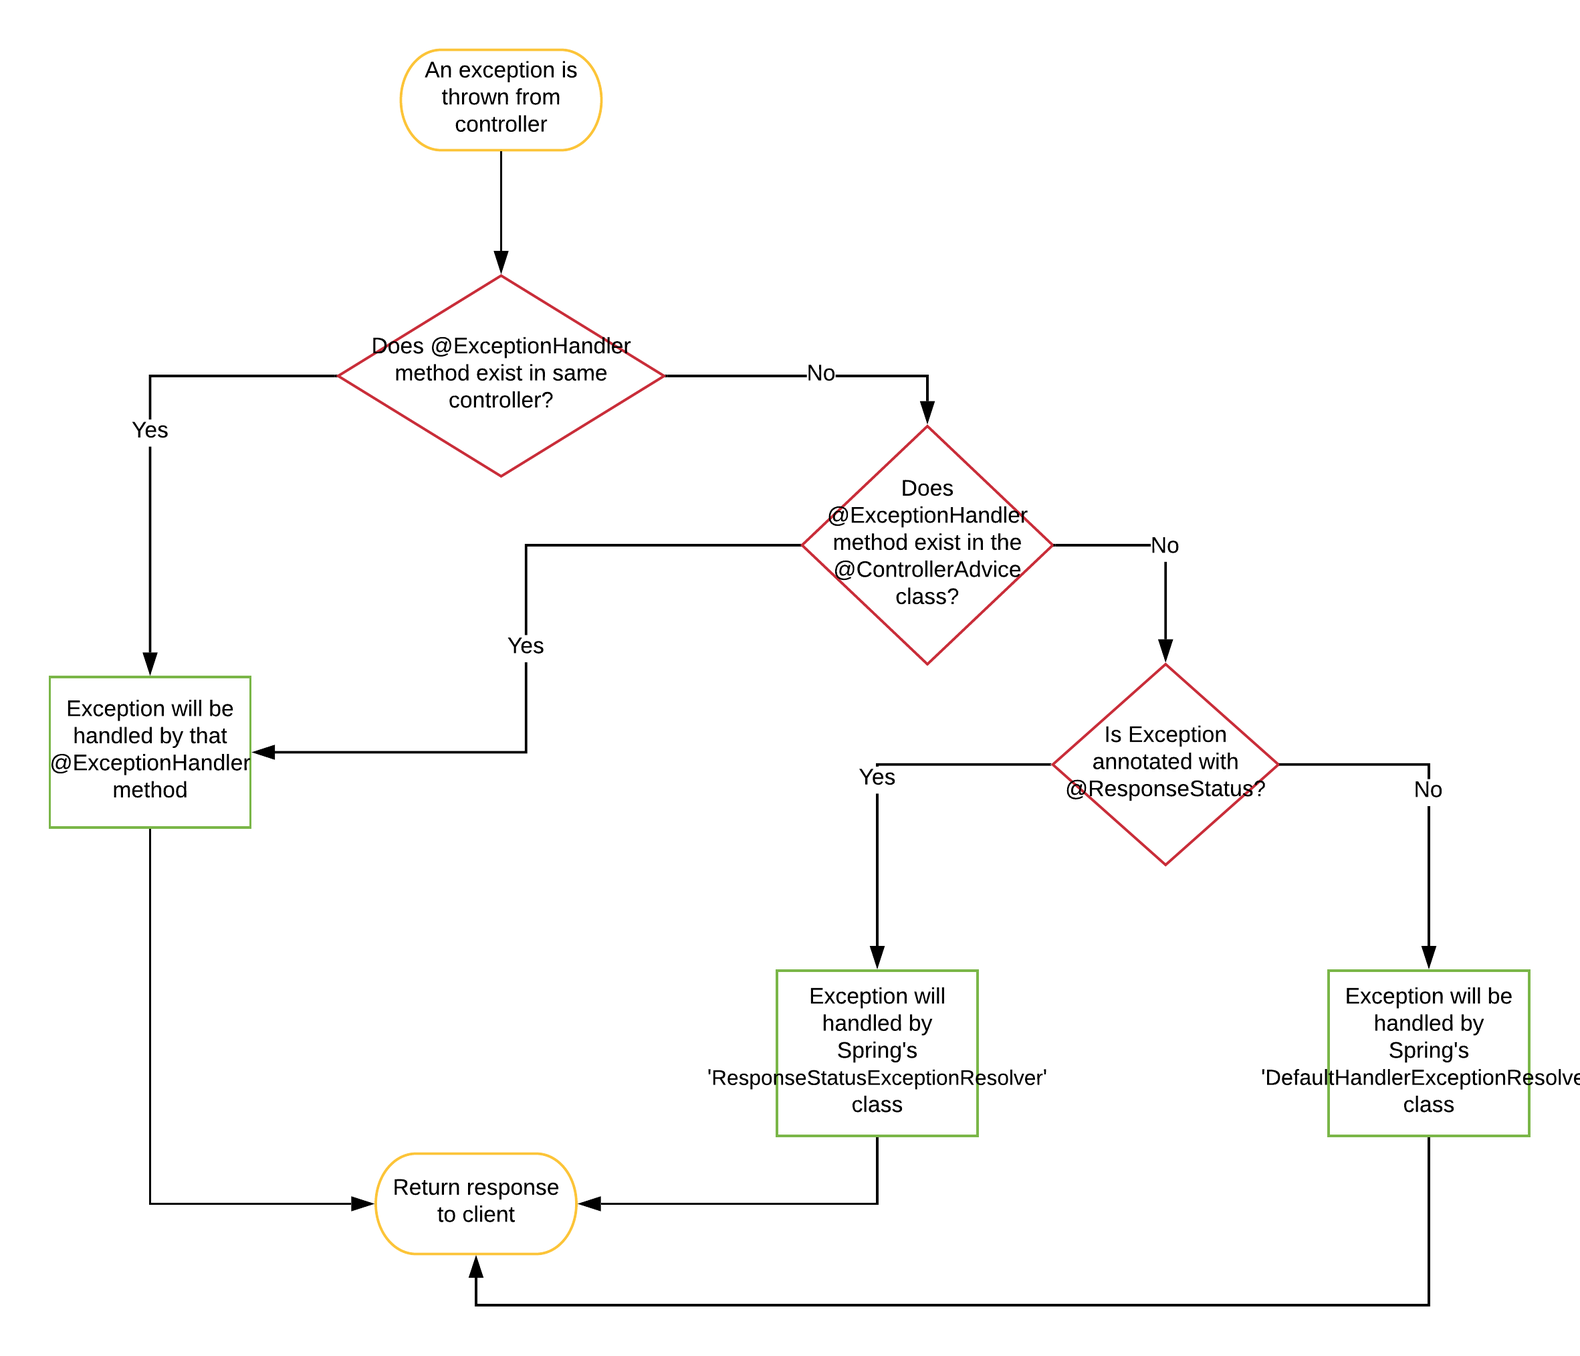
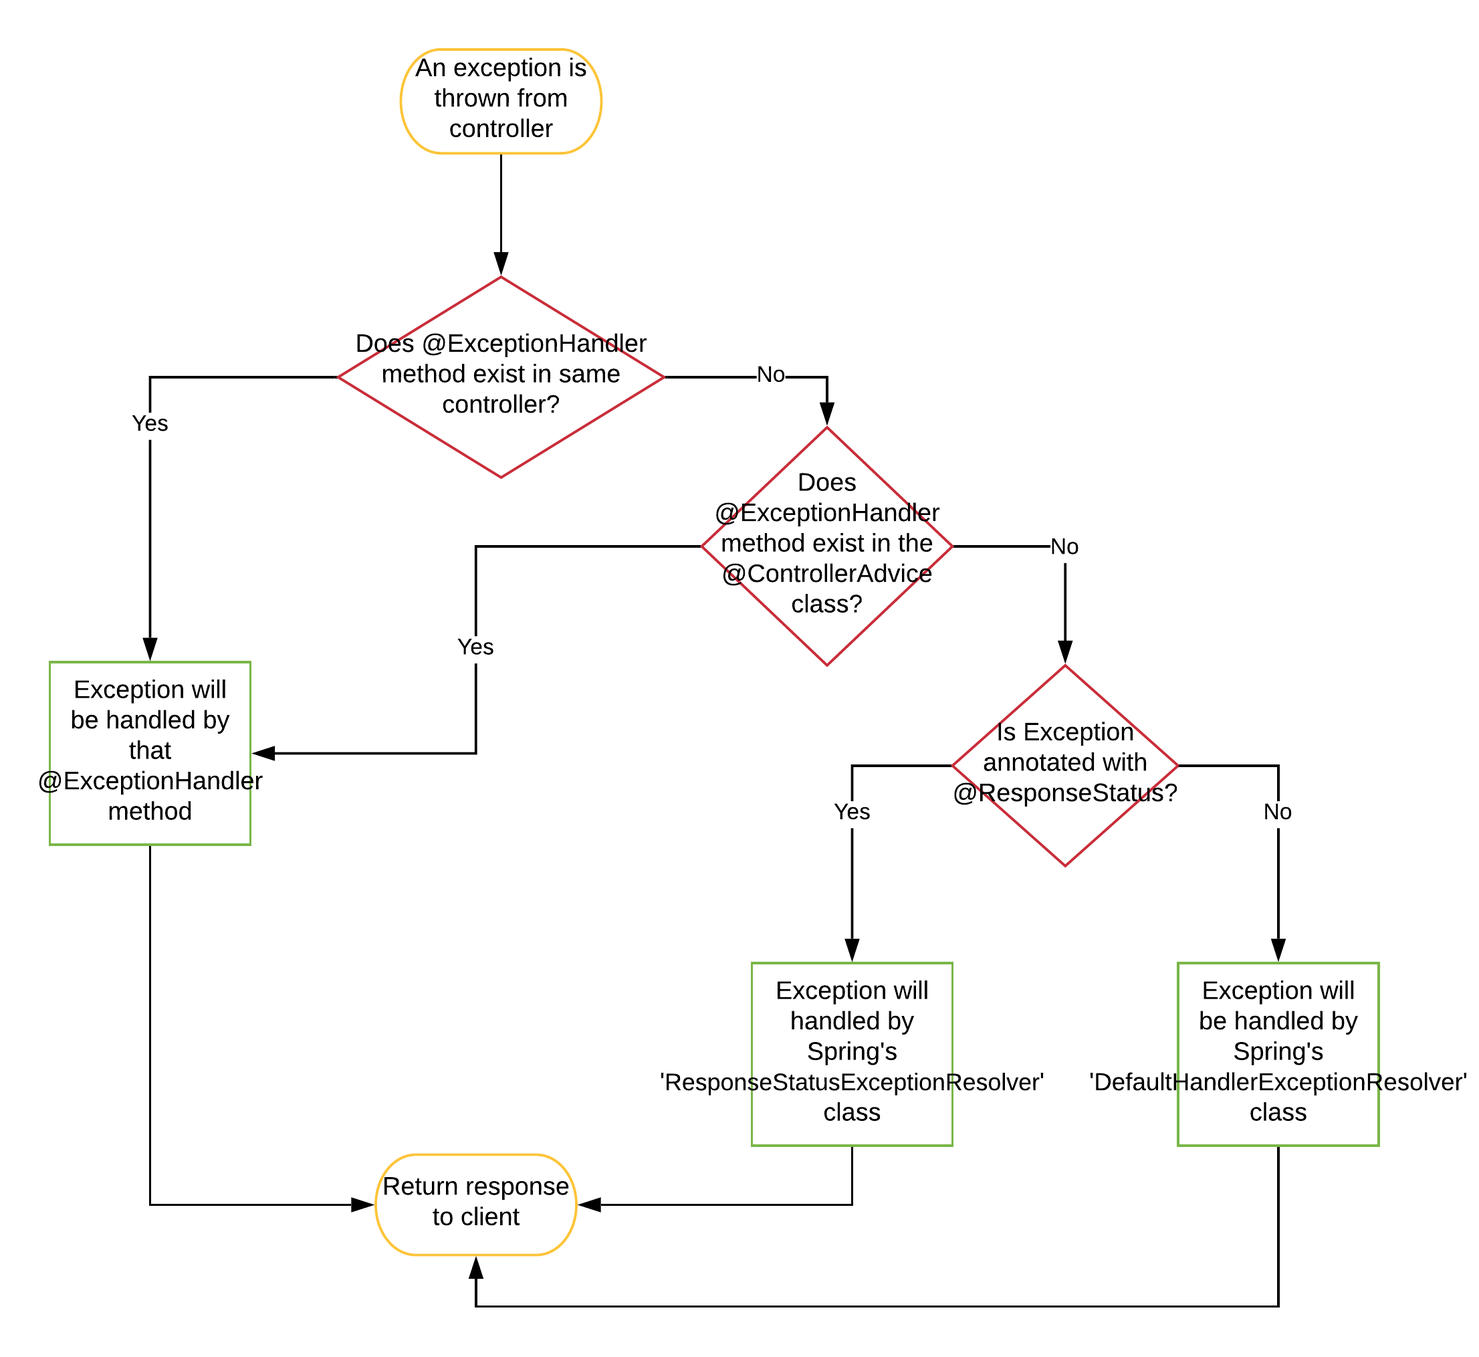
* Applies Grammarly suggestions * Updates flow chart

diff --git a/_posts/2020-12-03-spring-boot-exception-hanlding.md b/_posts/2020-12-03-spring-boot-exception-hanlding.md
@@ -19,21 +19,21 @@ other.
 
 ## Introduction 
 
-Spring Boot provides us tools to handle exceptions beyond simple 'Try-Catch'. These tools are nothing, but a handful of 
-annotations which allow us to treat exception handling as a cross-cutting concern.
+Spring Boot provides us tools to handle exceptions beyond simple 'Try-Catch'. These tools are nothing, but a handful of
+annotations that allow us to treat exception handling as a cross-cutting concern.
 
-* [`@ResponseStatus`](#responsestatus)
-* [`@ExceptionHandler`](#exceptionhandler)
-* [`@ControllerAdvice`](#controlleradvice)
+* [@ResponseStatus](#responsestatus)
+* [@ExceptionHandler](#exceptionhandler)
+* [@ControllerAdvice](#controlleradvice)
 
-Before jumping onto these annotations we will first look at how Spring handles exceptions thrown by our controllers - Our last line of defence for catching exception. 
-We will also look at the number of configuration provided by the framework in order to modify the default behavior. 
+Before jumping onto these annotations we will first look at how Spring handles exceptions thrown by our controllers - Our last line of defense for catching an exception.
+We will also look at the number of configurations provided by the framework in order to modify the default behavior.
 We will identify the challenges we face while doing that, and then we will try to overcome those using these annotations.
 
 ## Spring Boot's Default Exception Handling Mechanism
 
 Let's say we have a controller named `ProductController` whose `getProduct(...)` method is throwing a runtime exception called
-`NoSuchElementFound` when `Product` with given id is not found.
+`NoSuchElementFound` when `Product` with a given id is not found.
 
 ```java
 @RestController
@@ -50,8 +50,8 @@ public class ProductController {
 }
 ```
 
-If we call `/product` api with invalid `id` the service will throw `NoSuchElementFoundException` and we will get the 
-following response: 
+If we call `/product` API with invalid `id` the service will throw `NoSuchElementFoundException` and we will get the
+following response:
 
 ```json
 {
@@ -63,13 +63,13 @@ following response:
 }
 ```
 
-We can see that besides from a well-formed error response payload it is not giving us any useful information. Even the `message` 
-field is empty which should at least have 'Item with id 1 not found' that our exception is carrying.
+We can see that besides a well-formed error response payload it is not giving us any useful information. Even the `message`
+the field is empty which should at least have 'Item with id 1 not found' that our exception is carrying.
 
-Let's start by fixing error message issue.
+Let's start by fixing the error message issue.
 
-Spring Boot provides number of properties using which we can add exception message, exception class or even have stack trace
-as part of response payload.
+Spring Boot provides a number of properties using which we can add exception message, exception class, or even have a stack trace
+as part of the response payload.
 
 ```yaml
 server:
@@ -93,8 +93,8 @@ Now if we call the `/product` API again with invalid `id` we will get the follow
   "path": "/product/1"
 } 
 ```
-You can notice that for `include-stacktrace` we have set value `on_trace_param` which means if we have `/product/1?trace=true` in the query param you 
-will get stack trace in the response payload.
+You can notice that for `include-stacktrace` we have set value `on_trace_param` which means if we have `/product/1?trace=true` in the query param you
+will get a stack trace in the response payload.
 
 ```json
 {
@@ -106,26 +106,26 @@ will get stack trace in the response payload.
   "path": "/product/1"
 } 
 ```
-We might want to keep value of `include-stacktrace` flag to `never` only, at least in production, as it might reveal internal 
-workings of the application.  
+We might want to keep the value of `include-stacktrace` flag to `never` only, at least in production, as it might reveal internal
+workings of the application.
 
-Moving on! The status and error message - `500` - indicates that something is wrong with our code but in actuality it's a client error, and 
-our current status code doesn't correctly indicate that. Unfortunately, this is as far as we can go with the `server.error` configurations.  
+Moving on! The status and error message - `500` - indicates that something is wrong with our code but in actuality, it's a client error, and
+our current status code doesn't correctly reflect that. Unfortunately, this is as far as we can go with the `server.error` configurations.
 
 ## `@ResponseStatus`
 
-`@ResponseStatus` as the name suggests it allows us to modify the http status of our response. It can be applied at following
+`@ResponseStatus` as the name suggests allows us to modify the HTTP status of our response. It can be applied at following
 places:
 * On the exception class itself
 * Along with `@ExceptionHandler` annotation on methods
 * Along with `@ControllerAdvice` annotation on classes
 
-In this section we will be looking at the first point only. 
+In this section, we will be looking at the first point only.
 
-Coming back to the problem at hand that is our error responses weren't giving us status codes that better represent the 
+Let's come back to the problem at hand which is our error responses aren't giving us status codes that better represent the
 corresponding error message.
 
-To address this we can we annotate our Exception class with `@ResponseStatus` and pass in the desired http response status 
+To address this we can we annotate our Exception class with `@ResponseStatus` and pass in the desired HTTP response status
 in its value property:
 
 ```java
@@ -135,7 +135,7 @@ public class NoSuchElementFound extends RuntimeException {
 }
 ```
 
-This change will result in much better response:
+This change will result in a much better response:
 
 ```json
 {
@@ -160,13 +160,13 @@ public class NoSuchElementFoundException extends ResponseStatusException {
 
 This approach comes in handy when we want to manipulate the response headers too.
 
-Now, as we can see `@ResponseStatus` along with `server.error` properties allows us to manipulate almost all the fields 
-in our Spring defined error response payload but, what if want to manipulate response payload fields too? Let's see how 
+Now, as we can see `@ResponseStatus` along with `server.error` properties allows us to manipulate almost all the fields
+in our Spring defined error response payload but, what if want to manipulate response payload structure too? Let's see how
 we can achieve that in the next section. 
 
 ## `@ExceptionHandler`
-`@ExceptionHandler` annotation gives us a lot of flexibility in terms of handling exception. For starters to use it we 
-simply need to create a method either in the controller itself or in a `@ControllerAdvice` class and 
+`@ExceptionHandler` annotation gives us a lot of flexibility in terms of handling exceptions. For starters, to use it, we
+simply need to create a method either in the controller itself or in a `@ControllerAdvice` class and
 annotate it with `@ExceptionHandler`.
 
 ```java
@@ -190,33 +190,32 @@ public class ProductController {
 }
 ```
 
-`@ExceptionHandler` takes in an exception, or a list of exceptions as argument that we want to handle in the defined 
-method. If we don't wish to do that then simply defining exception as parameter of the method will also do:
+`@ExceptionHandler` takes in an exception or a list of exceptions as an argument that we want to handle in the defined
+method. If we don't wish to do that then simply defining exception as a parameter of the method will also do:
 
 ```java
 @ExceptionHandler
 public ResponseEntity<String> handleNoSuchElementFoundException(NoSuchElementFoundException exception)
 ```
 
-Or we can keep both just as shown in the example controller above. It gives better readability. For the same reason we have
-kept `@ResponseStatus(HttpStatus.NOT_FOUND)` on the handler method. Although it's not required as we have already provided 
-http status in `ResponseEntity`.
+Or we can keep both just as shown in the example controller above. It gives better readability. For the same reason, we have
+kept `@ResponseStatus(HttpStatus.NOT_FOUND)` on the handler method. Although it's not required as we have already provided HTTP status in `ResponseEntity`.
 
 Apart from exception parameter we can also have `HttpServletRequest`, `WebRequest`, `HttpSession` types as parameters. Similarly, the handler
-methods supports variety of return types such as `ResponseEntity`, `String` or even `void`. 
-Find more input are return types in [`@ExceptionHandler` java documentation](https://docs.spring.io/spring-framework/docs/current/javadoc-api/org/springframework/web/bind/annotation/ExceptionHandler.html).
+methods support a variety of return types such as `ResponseEntity`, `String`, or even `void`.
+Find more input and return types in [`@ExceptionHandler` java documentation](https://docs.spring.io/spring-framework/docs/current/javadoc-api/org/springframework/web/bind/annotation/ExceptionHandler.html).
 
-With plethora of options available to us in form of both input parameters and return types in our exception handling function,
-we are in complete control of the error response. 
+With the plethora of options available to us in form of both input parameters and return types in our exception handling function,
+we are in complete control of the error response.
 
-Now, lets finalize an error response payload for our apis. In case of any error clients usually expect two things:
-* First is error code which tells what kind of error it is. Also, error codes can be used by clients in there code to drive 
-  some business logic based on it. Usually error codes are standards http status codes, but I have also seen APIs returning 
+Now, let's finalize an error response payload for our APIs. In case of any error clients usually expect two things:
+* First is error code which tells what kind of error it is. Also, error codes can be used by clients in their code to drive
+  some business logic based on it. Usually, error codes are standards HTTP status codes, but I have also seen APIs returning
   custom errors code likes `E001`.
 * Second is an additional human-readable message which gives more information on the error and even some hints
-on how to fix them or link to api doc(The way [GitHub APIs](https://docs.github.com/en/free-pro-team@latest/rest/guides/getting-started-with-the-rest-api) does).
+  on how to fix them or link to API doc(The way [GitHub APIs](https://docs.github.com/en/free-pro-team@latest/rest/guides/getting-started-with-the-rest-api) does).
 * We will add an optional `stackTrace` field which will help us in debugging in the development environment.
-* Lastly, we also we need to make provisions for giving validations errors in the response.
+* Lastly, we also need to make provisions for giving validations errors in the response.
 
 Keeping these points in mind we will go with the following payload:
 
@@ -323,22 +322,22 @@ public class ProductController {
 Couple of things to note here:
 
 ### Giving Stack Trace
-Giving stack trace in the error response can save our Developers and QAs trouble of crawling through the log files or console logs or by 
+Giving stack trace in the error response can save our Developers and QA's trouble of crawling through the log files or console logs or by
 whatever means we have used to expose our logs. As we saw in the [Spring Boot's Default Exception Handling Mechanism](#spring-boots-default-exception-handling-mechanism) section that Spring was already providing us
-with this functionality but now, as we are handling error responses this also needs to be handled by ourselves. 
+with this functionality but now, as we are handling error responses this also needs to be handled by ourselves.
 
-To achieve this similar to `server.error` first we have introduced a property named `reflectoring.trace` which if set to `true`
-will enable `stack_trace` in the response. In order to actually get `stack_trace` in an API response our clients must pass 
-`trace` parameter with value `true`.
+To achieve this, similar to `server.error` first we have introduced a property named `reflectoring.trace` which if set to `true`
+will enable `stack_trace` in the response. In order to actually get `stackTrace` in an API response, our clients must pass
+`trace` parameter with the value `true`.
 
 ```text
 curl --location --request GET 'http://localhost:8080/product/1?trace=true'
 ```
 
-Now, as the behavior of `strace_trace` is controlled by our feature flag in our properties file, we can remove it or set 
+Now, as the behavior of `strace_trace` is controlled by our feature flag in our properties file, we can remove it or set
 to `false` when we deploy in production environments.
 
-### Catch All Exception
+### Catch-All Exception
 
 *Gotta catch em all*
 
@@ -352,24 +351,24 @@ try{
 }
 ```
 
-As a cautionary measure we often surround our top level method's body with a catch all Try-Catch exception handler block
-in order to avoid any unwanted side effects or behavior. The `handleAllUncaughtException` method in our controller behaves 
+As a cautionary measure, we often surround our top level method's body with a catch-all Try-Catch exception handler block
+in order to avoid any unwanted side effects or behavior. The `handleAllUncaughtException` method in our controller behaves
 similarly. **It will catch all the exceptions for which a handler method doesn't exist**.
 
-One thing I would like to note here is that even if we don't have this catch all exception handler then Spring will handle it
-anyway. We handled it because we wanted the response to go in our format rather than Spring's. Also, we needed to log this 
+One thing I would like to note here is that even if we don't have this catch-all exception handler, Spring will handle it
+anyway. We handled it because we wanted the response to go in our format rather than Spring's. Also, we needed to log this
 exception.
 
 ### Order Of Exception Handler Method
 
 The order in which you mention the handler methods doesn't matter. **Spring will first look for the specific exception handler method**.
-If it fails to find it then it will look for its parent exception class which in our case is `RuntimeException` and hence 
+If it fails to find it then it will look for its parent class which in our case is `RuntimeException` and hence
 `handleAllUncaughtException` method will finally handle the exception.
 
 //What do create exception hanlders common for all the controllers? 
 
 ## `@ControllerAdvice`
-Controller Advice classes allows us to apply exception handlers to more than one or all controllers in our application. 
+Controller Advice classes allow us to apply exception handlers to more than one or all controllers in our application.
 
 ```java
 @ControllerAdvice
@@ -486,31 +485,31 @@ public class GlobalExceptionHandler extends ResponseEntityExceptionHandler {
 }
 ```
 
-The handler functions defined in the above class, and the other support code is identical to that we saw in the [@ExceptionHandler](#exceptionhandler) section 
-apart from couple of things which we will talk about in while. The difference here is that these handlers will handle exceptions thrown by all the controllers 
+The handler functions defined in the above class, and the other support code is almost identical to that we saw in the [@ExceptionHandler](#exceptionhandler) section.  
+A couple of things are new which we will talk about in while. One major difference here is that these handlers will handle exceptions thrown by all the controllers
 in the application and not just `ProductController`.
 
-If we want to selectively apply or limit the scope of the Controller Advice to a particular controller, or a package we can do it 
-using number of its available properties:
-* `@ControllerAdvice("com.reflectoring.controller")` - We can pass package name or list of it in the annotation's `value` 
-  parameter. With this controller advice will only handle exceptions of this package's controllers.
-* `@ControllerAdvice(annotations = Adviced.class)` - Only controllers marked with `@Adivsed` annotation will be advised 
+If we want to selectively apply or limit the scope of the Controller Advice to a particular controller, or a package we can do it
+using a number of its available properties:
+* `@ControllerAdvice("com.reflectoring.controller")` - We can pass package name or list of it in the annotation's `value`
+  parameter. With this, Controller Advice will only handle exceptions of this package's controllers.
+* `@ControllerAdvice(annotations = Adviced.class)` - Only controllers marked with `@Adivsed` annotation will be advised
   by the Controller Adviser.
 
-Find other parameters in the [`@ControllerAdvice` annotation doc](https://www.javadoc.io/doc/org.springframework/spring-web/4.3.8.RELEASE/org/springframework/web/bind/annotation/ControllerAdvice.html).   
+Find other parameters in the [`@ControllerAdvice` annotation doc](https://www.javadoc.io/doc/org.springframework/spring-web/4.3.8.RELEASE/org/springframework/web/bind/annotation/ControllerAdvice.html).
 
 ### `ResponseEntityExceptionHandler`
-According to its documentation, `ResponseEntityExceptionHandler` is a convenient base class for a Controller advice classes. It provides
-exception handlers for internal Spring exceptions. If we don't extend it then all the exceptions will be redirected to 
- which returns `ModelAndView`. Since we are on the mission to handle all the exceptions 
+According to its documentation, `ResponseEntityExceptionHandler` is a convenient base class for Controller Advice classes. It provides
+exception handlers for internal Spring exceptions. If we don't extend it then all the exceptions will be redirected to `DefaultHandlerExceptionResolver`
+which returns `ModelAndView` object. Since we are on the mission to handle all the exceptions
 by ourselves, we don't want to miss those.
 
 As you can see we have overridden two of the `ResponseEntityExceptionHandler` methods:
-* `handleMethodArgumentNotValid` - In [@ExceptionHandler](#exceptionhandler) section we had implemented a handler for it ourselves. In here we only 
-overridden it's behavior.
-* `handleExceptionInternal` - All the handlers in the `ResponseEntityExceptionHandler` use this function to build the 
-`ResponseEntity` similar to our `buildErrorResponse`. If we don't override this then the clients will receive only Http status 
- in response and body but since we include http statues in our responses we have overridden the method.
+* `handleMethodArgumentNotValid` - In [@ExceptionHandler](#exceptionhandler) section we had implemented a handler for it ourselves. In here we have only
+  overridden its behavior.
+* `handleExceptionInternal` - All the handlers in the `ResponseEntityExceptionHandler` use this function to build the
+  `ResponseEntity` similar to our `buildErrorResponse`. If we don't override this then the clients will receive only HTTP status
+  in response but since we include HTTP statues in our response bodies as well, we have overridden the method.
 
 
 <div class="notice warning">
@@ -526,20 +525,24 @@ overridden it's behavior.
   <p>Credit: Stackoverflow user mengchengfeng <a href="https://stackoverflow.com/questions/36733254/spring-boot-rest-how-to-configure-404-resource-not-found">link</a>.</p>
 </div>
 
-## How Spring Processes The Exceptions
-Now that we have introduced ourselves with the mechanisms available to us for handling exceptions in Spring, let's 
-understand in brief how spring will handle it and when will one mechanism get prioritized over other.
-
-Please go through the following flow chart which traces the process of the exception handling by Spring:
-
-![Spring Exception Handling Flow](/assets/img/posts/spring-exception-handling/spring-exception-handling-mechanism.png) 
-
-## Important Points To Keep in Mind
-* To keep things simple always have only one Controller Adviser class in the project. It's good to have single repository of 
+### Some Points To Keep In Mind When Using @ControllerAdvice
+* To keep things simple always have only one Controller Adviser class in the project. It's good to have a single repository of
   all the exceptions in the application. In case you create multiple then try to utilize `basePackages` or `annotations` property
-  to make it clear what controllers it's going to advice.
-* **Spring can process Controller Advice classes in any order** so be mindful when you write a catch all handler in them. Especially 
+  to make it clear what controllers it's going to advise.
+* **Spring can process Controller Advice classes in any order** so be mindful when you write a catch-all handler in them. Especially
   when you have not specified `basepPackages` or `annotations` in the annotation.
 
+## How Does Spring Process The Exceptions?
+Now that we have introduced ourselves with the mechanisms available to us for handling exceptions in Spring, let's
+understand in brief how Spring handles it and when one mechanism gets prioritized over the other.
+
+Please go through the following flow chart that traces the process of the exception handling by Spring:
+
+![Spring Exception Handling Flow](/assets/img/posts/spring-exception-handling/spring-exception-handling-mechanism.png)
+
 ## Conclusion
-Thank you for reading!
+
+In this article was saw various ways to handle Exceptions in a Spring Boot application and also the problems which each approach 
+can help us solve.
+
+Thank you for reading! You can find the working code at [GitHub](https://github.com/thombergs/code-examples/tree/master/spring-boot/hibernate-search).
